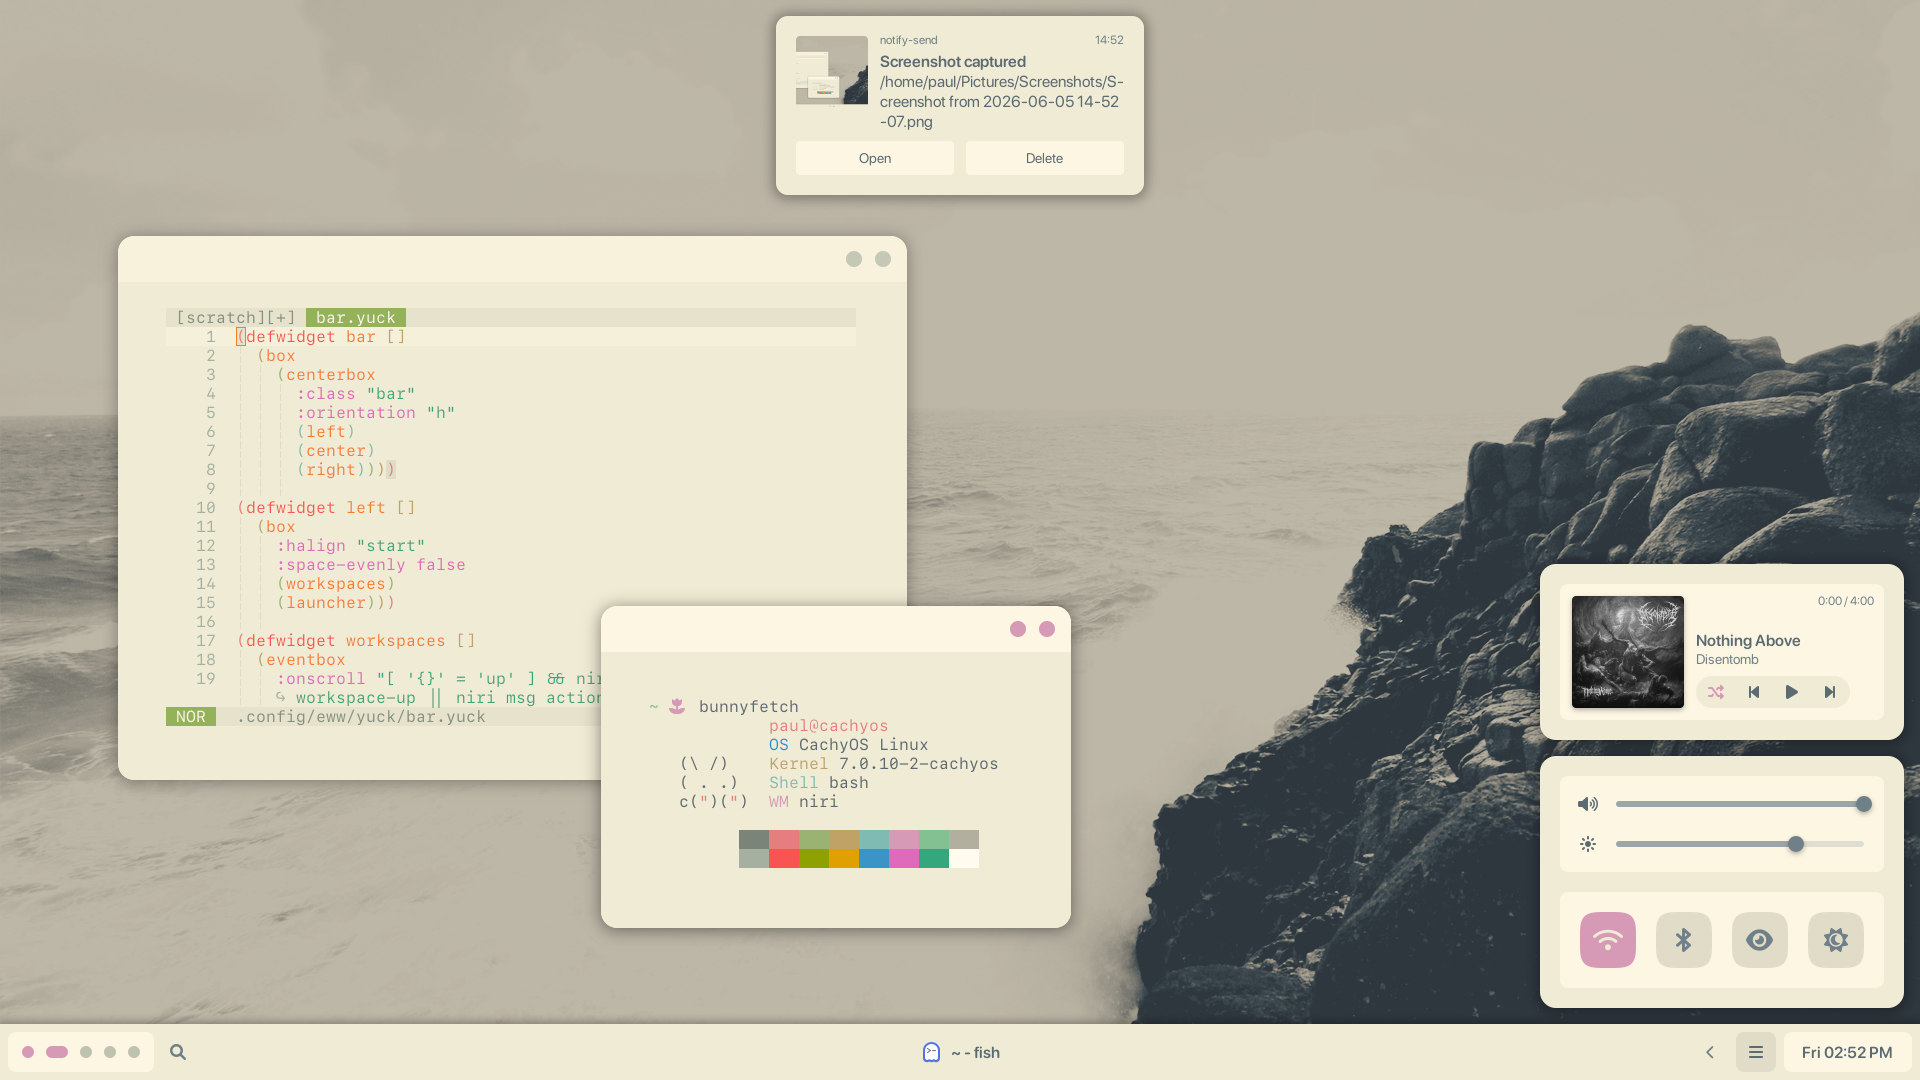
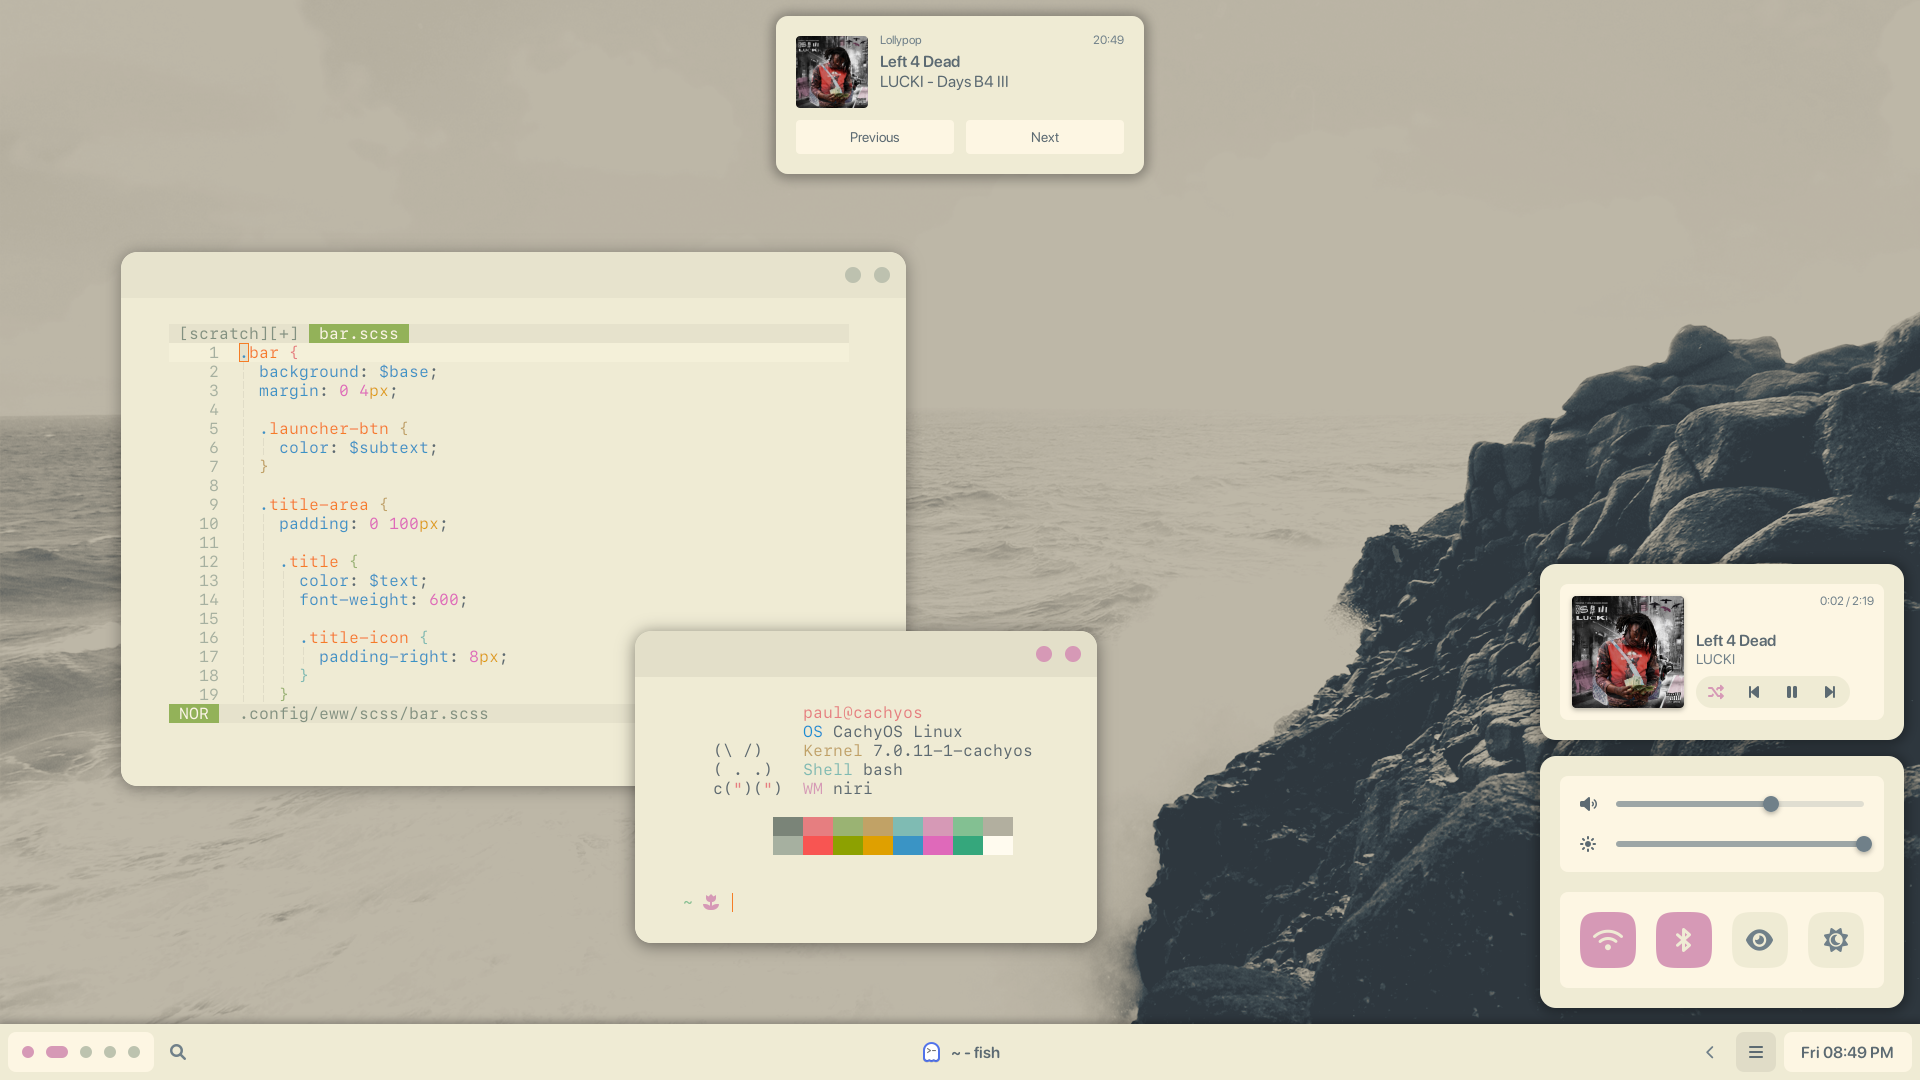
new screenshots

diff --git a/README.md b/README.md
@@ -6,6 +6,10 @@ I barely know what I’m doing and this has only been tested on my device, so ym
 
 ![screenshot](./assets/screenshot2.png)
 
+![screenshot](./assets/screenshot3.png)
+
+![screenshot](./assets/screenshot4.png)
+
 ## Stuff
 
 - CachyOS